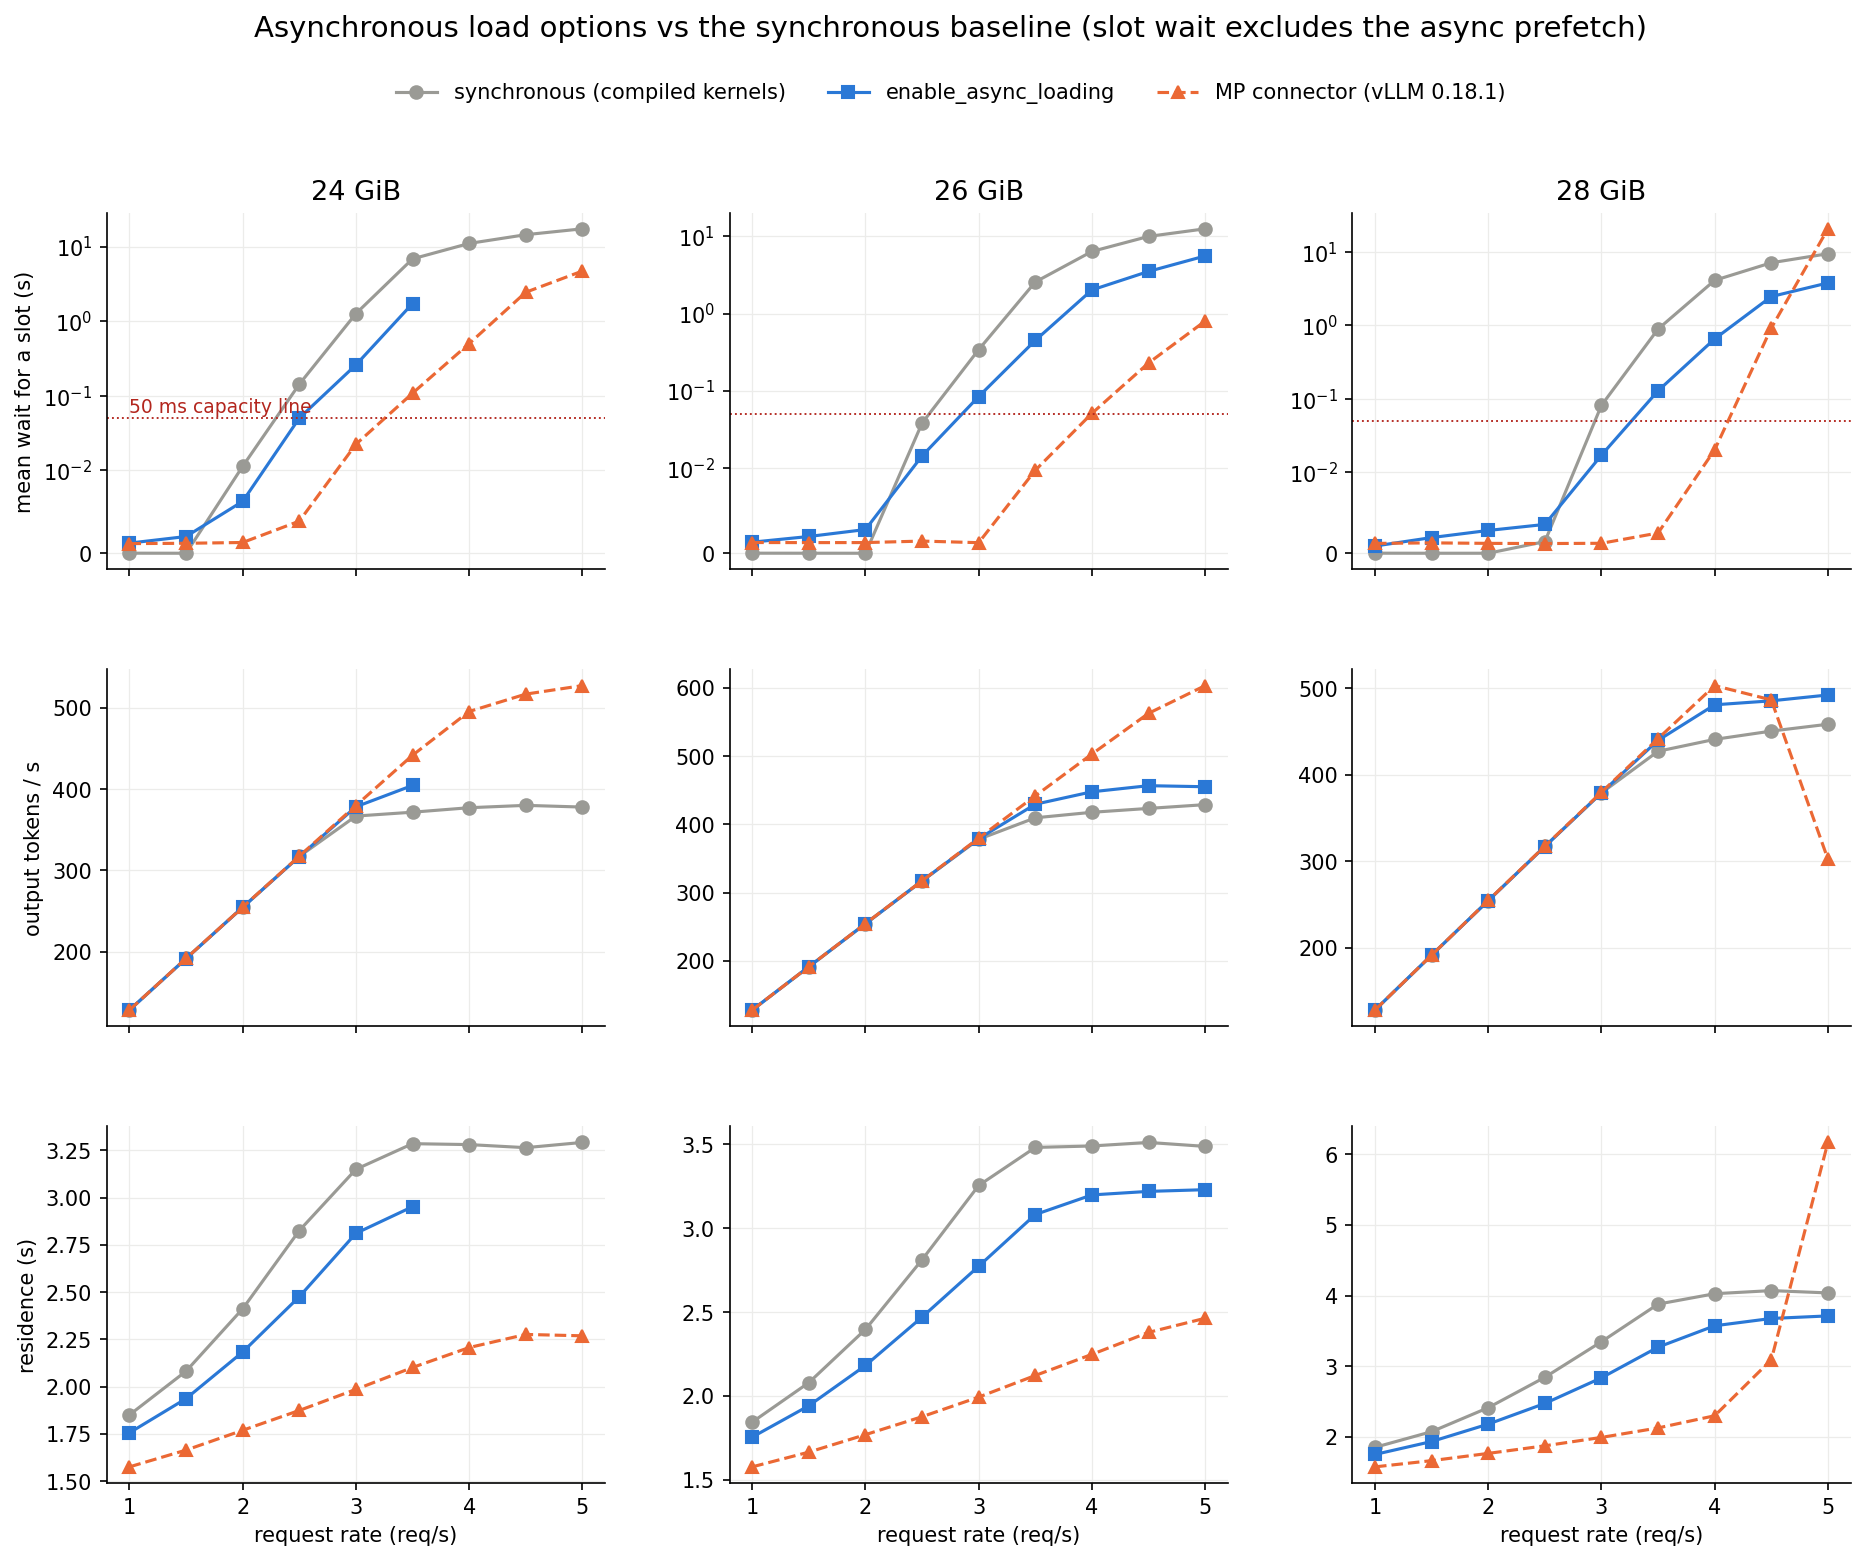
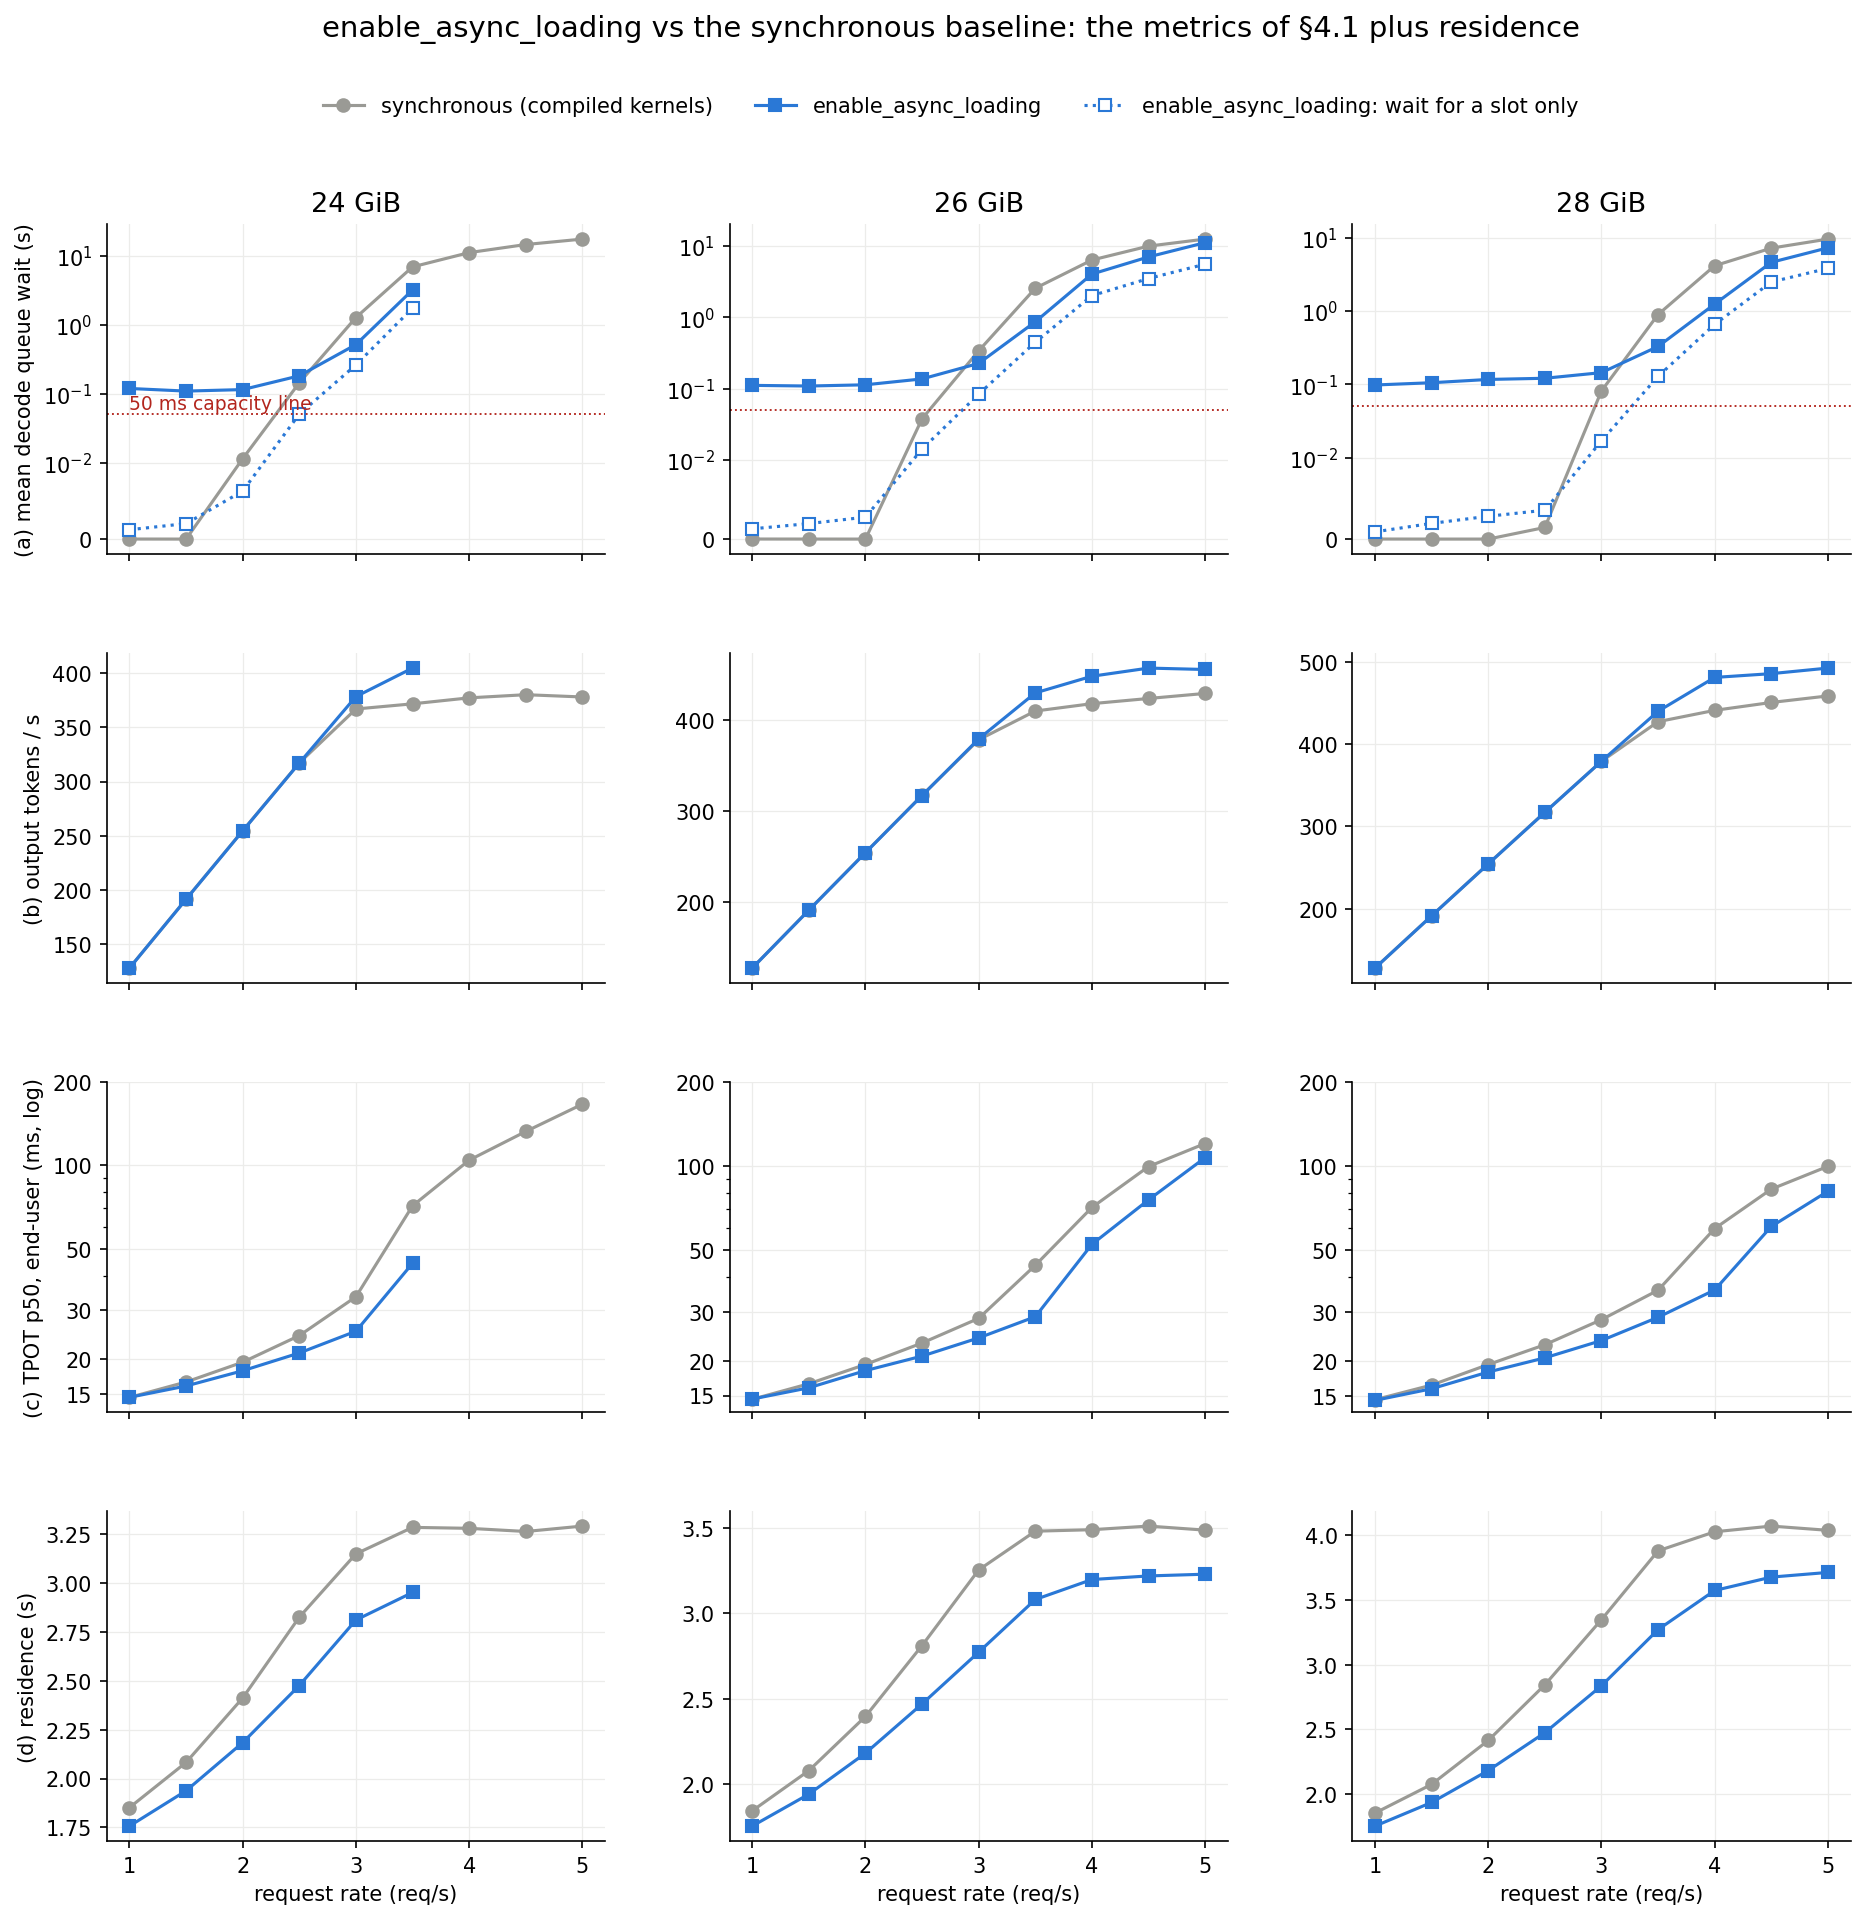
§6.3/6.4 figures on the §4.1 metrics (queue wait, throughput, TPOT) plus residence; MP in its own figure; slide grids show queue time

diff --git a/scripts/plots/plot_kv_async.py b/scripts/plots/plot_kv_async.py
@@ -8,7 +8,7 @@ baseline, per budget and rate. Per cell from the joined timelines:
   throughput = output tokens / s (summary)
 
     .venv/bin/python scripts/plots/plot_kv_async.py [method ...]
-        -> figures/kv_async.png, output/kv_vram/async_summary.csv
+        -> figures/kv_async.png (§6.3), figures/kv_mp.png (§6.4), output/kv_vram/async_summary.csv
 """
 import csv
 import sys
@@ -17,6 +17,7 @@ from pathlib import Path
 import matplotlib
 matplotlib.use("Agg")
 import matplotlib.pyplot as plt
+import matplotlib.ticker
 import numpy as np
 
 REPO = Path(__file__).resolve().parent.parent.parent
@@ -79,7 +80,16 @@ def main(methods):
         w.writerows(rows)
     print(f"-> {out.relative_to(REPO)} ({len(rows)} cells)")
 
-    fig, axes = plt.subplots(3, 3, figsize=(15, 11), sharex=True, gridspec_kw={"hspace": 0.28, "wspace": 0.25})
+    # one figure per load-path arm against the synchronous baseline, with the metrics of
+    # report §4.1 (queue wait, throughput, end-user TPOT) plus residence
+    for arm, fname, title in (("cops_async", "kv_async.png", "enable_async_loading"),
+                              ("mp18", "kv_mp.png", "MP connector (vLLM 0.18.1)")):
+        if arm in methods:
+            plot_arm(rows, ["cops", arm], fname, title)
+
+
+def plot_arm(rows, methods, fname, title):
+    fig, axes = plt.subplots(4, 3, figsize=(15, 14), sharex=True, gridspec_kw={"hspace": 0.3, "wspace": 0.25})
     for j, b in enumerate(BUDGETS):
         for m in methods:
             rs = [r for r in rows if r["method"] == m and r["budget"] == b]
@@ -87,27 +97,36 @@ def main(methods):
                 continue
             lab, c, mk, ls = ARMS[m]
             x = [r["qps"] for r in rs]
-            axes[0, j].plot(x, [max(r["slot_wait_ms"], 0) / 1e3 for r in rs], color=c, marker=mk, ls=ls, label=lab)
-            axes[1, j].plot(x, [r["tok_s"] for r in rs], color=c, marker=mk, ls=ls, label=lab)
-            axes[2, j].plot(x, [r["resid_s"] for r in rs], color=c, marker=mk, ls=ls, label=lab)
+            axes[0, j].plot(x, [r["wait_ms"] / 1e3 for r in rs], color=c, marker=mk, ls="-", label=lab)
+            if m != "cops":     # the part of that queue time spent waiting for a slot
+                axes[0, j].plot(x, [max(r["slot_wait_ms"], 0) / 1e3 for r in rs], color=c, marker=mk, ls=":",
+                                mfc="white", label=f"{lab}: wait for a slot only")
+            axes[1, j].plot(x, [r["tok_s"] for r in rs], color=c, marker=mk, ls="-", label=lab)
+            axes[2, j].plot(x, [r["tpot_ms"] for r in rs], color=c, marker=mk, ls="-", label=lab)
+            axes[3, j].plot(x, [r["resid_s"] for r in rs], color=c, marker=mk, ls="-", label=lab)
         axes[0, j].set_yscale("symlog", linthresh=0.01)
         axes[0, j].axhline(0.05, color="#b3261e", lw=0.9, ls=":")
+        axes[2, j].set_yscale("log")
+        axes[2, j].set_yticks([15, 20, 30, 50, 100, 200])
+        axes[2, j].yaxis.set_major_formatter(matplotlib.ticker.ScalarFormatter())
+        axes[2, j].yaxis.set_minor_formatter(matplotlib.ticker.NullFormatter())
         axes[0, j].set_title(f"{b} GiB", fontsize=13)
-        axes[2, j].set_xlabel("request rate (req/s)")
-        for i in range(3):
+        axes[3, j].set_xlabel("request rate (req/s)")
+        for i in range(4):
             axes[i, j].grid(color="#ececea", lw=0.6)
             axes[i, j].spines[["top", "right"]].set_visible(False)
-    axes[0, 0].set_ylabel("mean wait for a slot (s)")
-    axes[1, 0].set_ylabel("output tokens / s")
-    axes[2, 0].set_ylabel("residence (s)")
+    axes[0, 0].set_ylabel("(a) mean decode queue wait (s)")
+    axes[1, 0].set_ylabel("(b) output tokens / s")
+    axes[2, 0].set_ylabel("(c) TPOT p50, end-user (ms, log)")
+    axes[3, 0].set_ylabel("(d) residence (s)")
     axes[0, 0].text(1.0, 0.06, "50 ms capacity line", color="#b3261e", fontsize=9)
-    h, l = axes[1, 0].get_legend_handles_labels()
-    fig.legend(h, l, loc="upper center", ncol=len(h), frameon=False, bbox_to_anchor=(0.5, 0.97))
-    fig.suptitle("Asynchronous load options vs the synchronous baseline (slot wait excludes the async prefetch)",
-                 y=1.0, fontsize=14)
-    fig.savefig(REPO / "figures" / "kv_async.png", dpi=150, bbox_inches="tight")
-    print("-> figures/kv_async.png")
+    h, l = axes[0, 0].get_legend_handles_labels()
+    fig.legend(h, l, loc="upper center", ncol=len(h), frameon=False, bbox_to_anchor=(0.5, 0.95))
+    fig.suptitle(f"{title} vs the synchronous baseline: the metrics of §4.1 plus residence", y=0.98, fontsize=14)
+    fig.savefig(REPO / "figures" / fname, dpi=150, bbox_inches="tight")
+    plt.close(fig)
+    print(f"-> figures/{fname}")
 
 
 if __name__ == "__main__":
-    main(sys.argv[1:] or ["cops", "cops_async"])
+    main(sys.argv[1:] or ["cops", "cops_async", "mp18"])

diff --git a/scripts/plots/plot_slides.py b/scripts/plots/plot_slides.py
@@ -694,8 +694,10 @@ def fig_lever_grid(method, label, color, name, unstable=None, extra=()):
             rs = sorted([r for r in rows if r["method"] == m and int(r["budget"]) == b],
                         key=lambda r: float(r["qps"]))
             q = [float(r["qps"]) for r in rs]
-            axes[0, j].plot(q, [max(float(r["slot_wait_ms"]), 0) / 1e3 for r in rs], marker=mk, color=c,
-                            lw=2, label=lab)
+            axes[0, j].plot(q, [float(r["wait_ms"]) / 1e3 for r in rs], marker=mk, color=c, lw=2, label=lab)
+            if m != "cops":
+                axes[0, j].plot(q, [max(float(r["slot_wait_ms"]), 0) / 1e3 for r in rs], marker=mk, color=c,
+                                lw=1.5, ls=":", mfc="white", label="… wait for a slot only")
             axes[1, j].plot(q, [float(r["resid_s"]) for r in rs], marker=mk, color=c, lw=2, label=lab)
         axes[0, j].set_yscale("symlog", linthresh=0.01)
         axes[0, j].axhline(0.05, color=C_RED, lw=1, ls=":")
@@ -710,12 +712,12 @@ def fig_lever_grid(method, label, color, name, unstable=None, extra=()):
                 axes[i, j].axvspan(unstable[b] - 0.25, 5.25, color="#f3d6d3", alpha=0.6, lw=0)
             axes[1, j].text(unstable[b] + 0.45, axes[1, j].get_ylim()[0] + 0.1, "crashed", color=C_RED,
                             fontsize=12, ha="center", va="bottom")
-    axes[0, 0].set_ylabel("wait for a slot (s)", fontsize=13)
+    axes[0, 0].set_ylabel("queue wait (s)", fontsize=13)
     axes[1, 0].set_ylabel("residence (s)", fontsize=13)
-    axes[0, 0].text(1.0, 0.06, "50 ms", color=C_RED, fontsize=12)
+    axes[0, 0].text(1.0, 0.025, "50 ms", color=C_RED, fontsize=12, va="top")
     h, l = axes[0, 0].get_legend_handles_labels()
-    fig.legend(h, l, loc="upper center", ncol=2, frameon=False, fontsize=13, bbox_to_anchor=(0.5, 1.02))
-    mbadge(axes[0, 2], 2.55, 0.25, 1)
+    fig.legend(h, l, loc="upper center", ncol=3, frameon=False, fontsize=12, bbox_to_anchor=(0.5, 1.03))
+    mbadge(axes[0, 2], 2.0, 0.6, 1)
     mbadge(axes[1, 1], 3.0, 2.6, 2)
     if unstable:
         mbadge(axes[0, 0], 4.5, 5.0, 3)

diff --git a/reports/report_kv_slots.md b/reports/report_kv_slots.md
@@ -308,6 +308,9 @@ hop, staging pool → GPU, stays inside the admitting step. Full grid, same 27 c
 
 ![async vs sync](../figures/kv_async.png)
 
+Same metrics as §4.1, plus residence. In (a) the solid line is vLLM's queue time, the
+dotted line only the part spent waiting for a slot (the difference is the prefetch).
+
 vLLM's queue time now contains the prefetch, which the user still waits through before
 the first decode step but which holds no slot. The table gives capacity both ways: on
 vLLM's queue time (the study's rule) and on the **slot wait** alone (queue time minus
@@ -321,6 +324,7 @@ capacity is resolved to the 0.5 req/s grid step.
 | slot wait at 3 req/s | 1,265 → 260 ms | 340 → 84 | 81 → 17 |
 | residence, async ÷ sync (1–3.5 req/s) | 0.88–0.95 | 0.85–0.95 | 0.84–0.95 |
 | saturation | 2.97 → 3.16 req/s (≤ 3.5; unstable above) | 3.35 → 3.57 | 3.58 → 3.85 |
+| TPOT p50 at 1 / 3 / 3.5 req/s | 14.6 / 33.6 / 71.5 → 14.6 / 25.2 / 44.4 ms | 14.5 / 28.4 / 44.0 → 14.6 / 24.1 / 28.8 | 14.6 / 28.2 / 36.0 → 14.5 / 23.8 / 28.8 |
 
 - At 24 GiB / 2.5 req/s the copy left in the step falls 116 → 70 ms per request and the
   extra time of load-carrying steps 0.67 → 0.41 s per request.
@@ -347,7 +351,10 @@ requests (0.15.1: 9.95 / 12.51 / 15.07), and the median decode step is ~2 ms sho
 small batches. No same-version synchronous control was run, so every comparison below
 mixes the connector with these version effects. Full grid, 27 cells, all ok (DECISIONS D11):
 
-![MP vs sync](../figures/kv_async.png)
+![MP vs sync](../figures/kv_mp.png)
+
+Same metrics as §4.1, plus residence; in (a) the dotted line is the wait for a slot alone
+(the difference to the solid line is the ~42 ms KV wait after the block grant).
 
 | | 24 GiB | 26 GiB | 28 GiB |
 |---|---|---|---|
@@ -356,6 +363,7 @@ mixes the connector with these version effects. Full grid, 27 cells, all ok (DEC
 | capacity on slot wait only | 2 → 3 | 2.5 → 3.5 | 2.5 → 4 |
 | best throughput, sync → MP | 380 → 528 tok/s (+39%) | 429 → 603 (+41%, still rising) | 458 → 503 at 4 req/s, then collapses |
 | residence at 3 req/s | 3.15 → 1.99 s | 3.25 → 1.99 | 3.35 → 1.99 |
+| TPOT p50 at 1 / 3 / 3.5 req/s | 14.6 / 33.6 / 71.5 → 12.4 / 15.9 / 17.1 ms | 14.5 / 28.4 / 44.0 → 12.5 / 15.8 / 16.9 | 14.6 / 28.2 / 36.0 → 12.5 / 15.8 / 16.9 |
 
 - **The stall is gone.** Extra time of load-carrying steps 0.05–0.06 s per request in every
   cell (synchronous: 0.67 s at 24 GiB / 2.5 req/s). A new request waits 41–44 ms (p50) for
